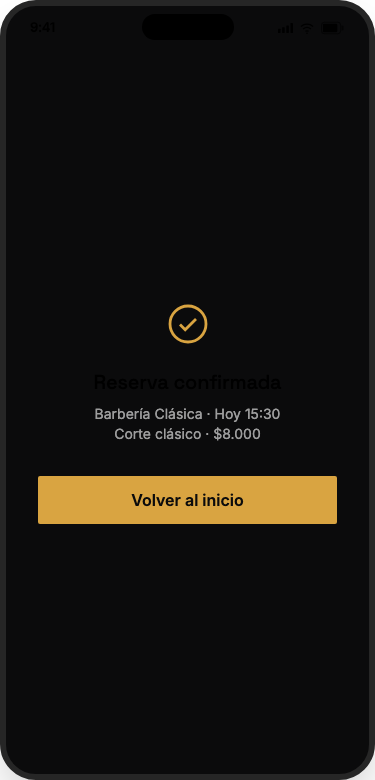
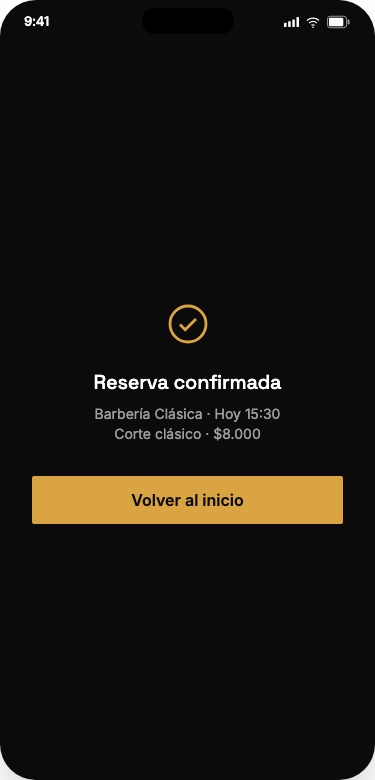
Quita bordes del mockup del teléfono, corrige texto negro en capturas y centra el resplandor

diff --git a/index.html b/index.html
@@ -72,16 +72,18 @@
         </a>
       </div>
     </div>
-    <div class="relative flex justify-center md:justify-end">
-      <div class="absolute -inset-10 bg-gold/15 rounded-full blur-3xl"></div>
-      <div class="relative bg-panel rounded-lg p-4 sm:p-5 w-full max-w-xs">
-        <a href="app-cliente.html" class="preview-carousel relative block aspect-[375/780] border border-white/20 rounded-sm overflow-hidden shadow-[0_25px_60px_-15px_rgba(0,0,0,0.7)] hover:border-gold/50 transition">
+    <div class="flex justify-center md:justify-end">
+      <div class="relative w-full max-w-xs">
+        <div class="absolute -inset-10 bg-gold/15 rounded-full blur-3xl"></div>
+        <div class="relative bg-panel rounded-lg p-4 sm:p-5">
+          <a href="app-cliente.html" class="preview-carousel relative block aspect-[375/780] rounded-[2.25rem] overflow-hidden shadow-[0_25px_60px_-15px_rgba(0,0,0,0.7)] transition">
           <img src="screenshots/app-cliente-lista.png" alt="Vista previa de la app CorteYa" class="preview-slide active absolute inset-0 w-full h-full object-cover">
           <img src="screenshots/app-cliente-mapa.png" alt="" class="preview-slide absolute inset-0 w-full h-full object-cover">
           <img src="screenshots/app-cliente-detalle.png" alt="" class="preview-slide absolute inset-0 w-full h-full object-cover">
           <img src="screenshots/app-cliente-agendar.png" alt="" class="preview-slide absolute inset-0 w-full h-full object-cover">
           <img src="screenshots/app-cliente-confirmacion.png" alt="" class="preview-slide absolute inset-0 w-full h-full object-cover">
-        </a>
+          </a>
+        </div>
       </div>
     </div>
   </section>

diff --git a/app-cliente.html b/app-cliente.html
@@ -38,7 +38,7 @@
 
     <div class="flex justify-center">
       <!-- PHONE FRAME -->
-      <div class="relative w-[375px] h-[780px] rounded-[2.25rem] border-[6px] border-neutral-800 bg-ink overflow-hidden shadow-2xl">
+      <div class="relative w-[375px] h-[780px] rounded-[2.25rem] bg-ink overflow-hidden shadow-2xl">
 
         <!-- status bar estilo iPhone (compartido por las 4 pantallas) -->
         <div class="relative h-11 flex items-center justify-between px-6 z-30 shrink-0">
